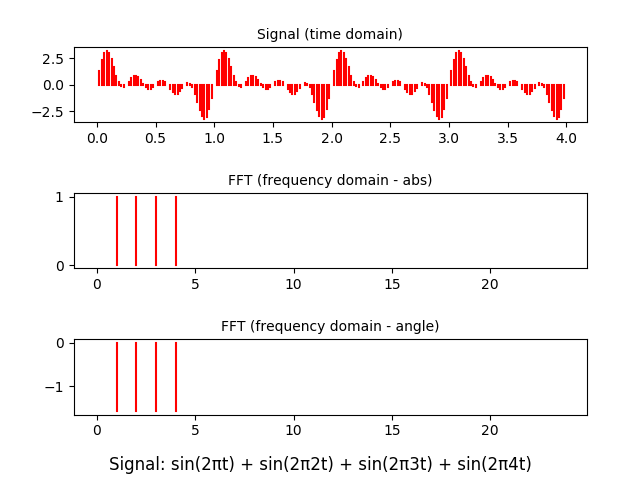
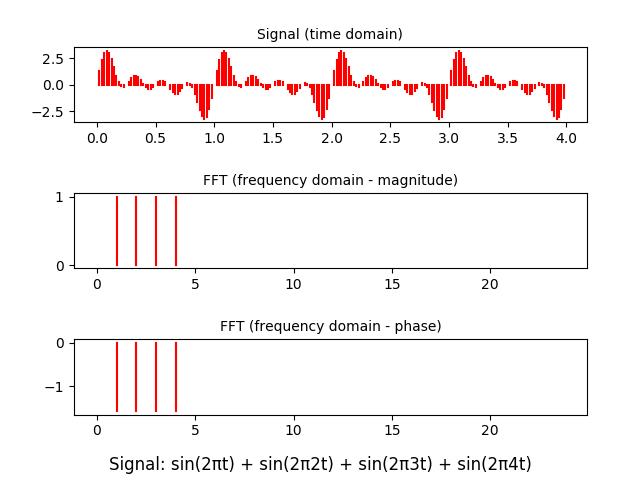
Updated analyses scripts

Changed region(s): [[0.3125, 0.3438, 0.7188, 0.4062], [0.3438, 0.6562, 0.6875, 0.6875]]

diff --git a/analyses/scripts/plots/create_blog_plots.py b/analyses/scripts/plots/create_blog_plots.py
@@ -115,11 +115,11 @@ def create_fft_plot(fft_plot_filename):
     axes[0].stem(time, signal, "r", basefmt=" ", markerfmt=" ")
 
     # Plot FFT abs
-    axes[1].set_title("FFT (frequency domain - abs)", fontsize=10)
+    axes[1].set_title("FFT (frequency domain - magnitude)", fontsize=10)
     axes[1].stem(frequency, fft_abs, "r", basefmt=" ", markerfmt=" ")
 
     # Plot FFT angle
-    axes[2].set_title("FFT (frequency domain - angle)", fontsize=10)
+    axes[2].set_title("FFT (frequency domain - phase)", fontsize=10)
     axes[2].stem(frequency, fft_angle, "r", basefmt=" ", markerfmt=" ")
 
     plt.savefig(fft_plot_filename, transparent=True)
